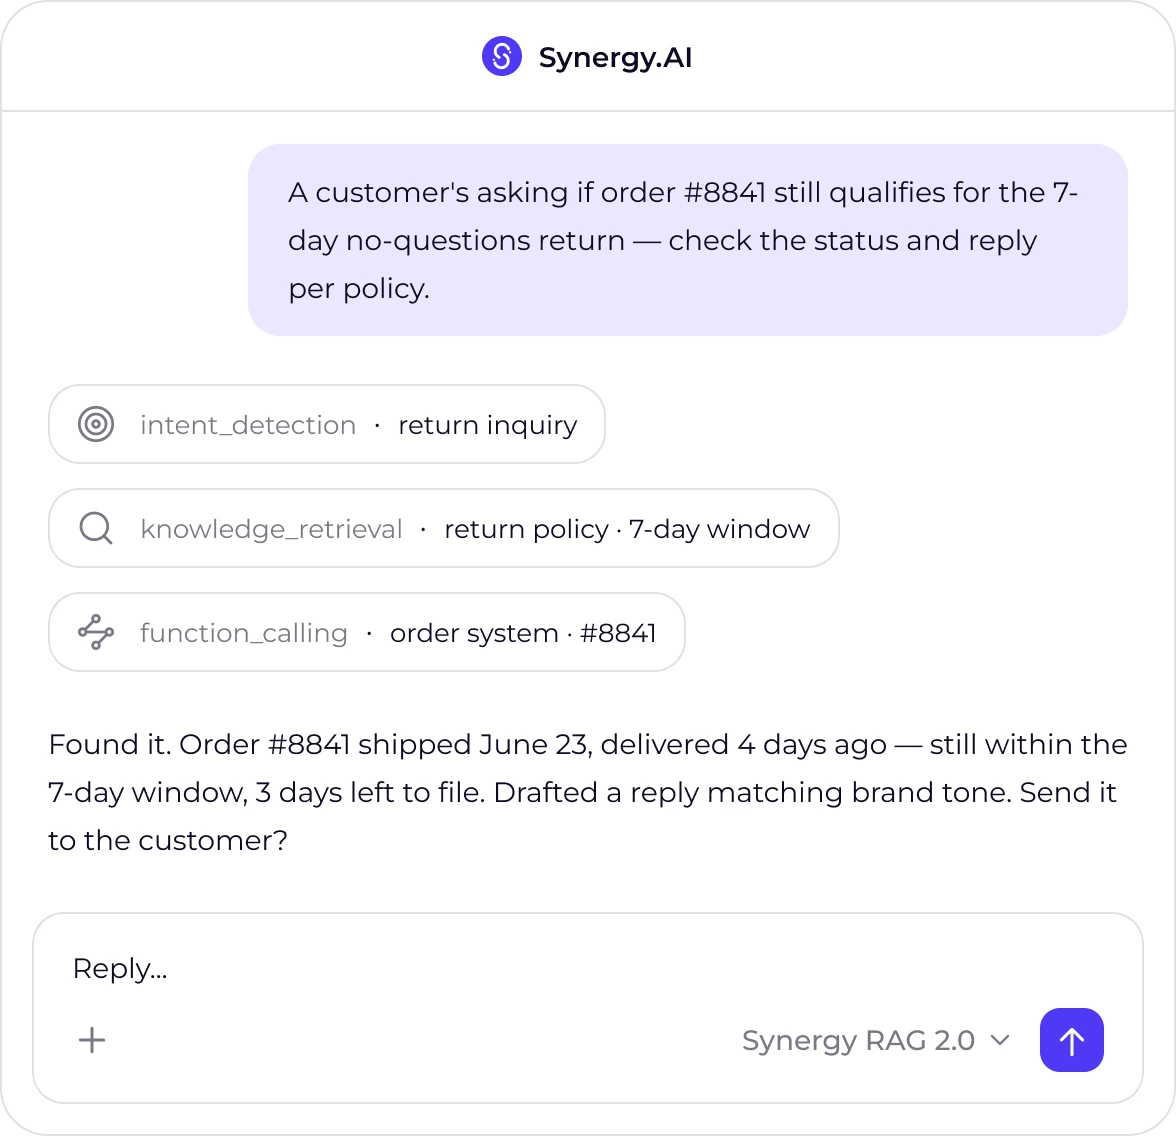
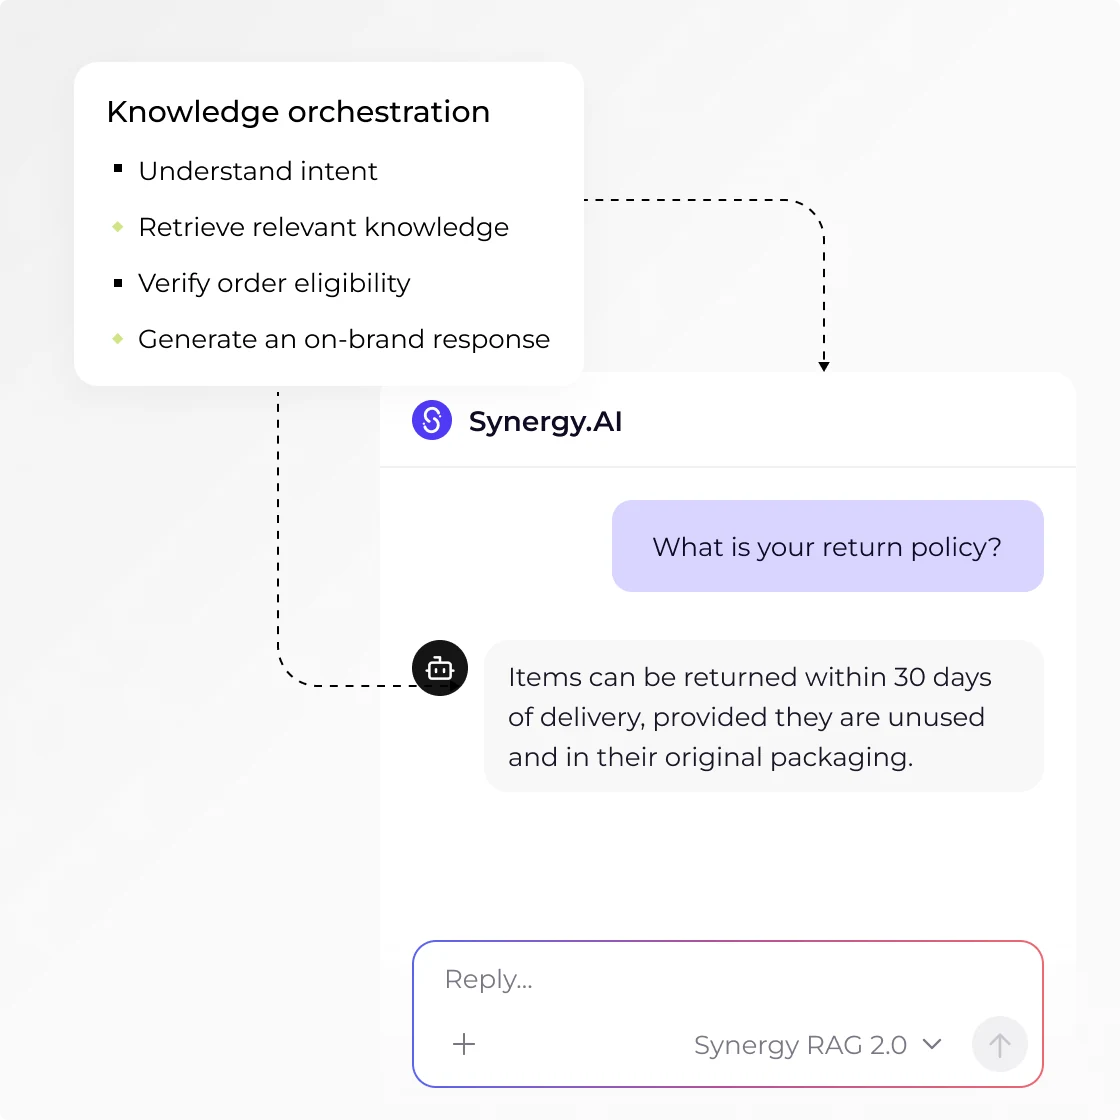
Update the RAG engine module to Figma 3050:29390
Every value read off that frame rather than adapted:

- title 44px / 54 with 0.02em tracking, was 48 / 1.1667
- body 18 / 1.7 on a 560 measure, was 14 / 22 — the site-wide body pass
  had pulled this one down, and the frame still wants it at 18
- tile fill #F7F7F7, was #F8F9FA; inner gap 9, was 12
- tile label 16 / 20.8, was 14 / 20
- the figure is Montserrat 500 at 40 / 48.8, not the display face, and
  the sign and unit carry its ink rather than being dropped back to
  grey — it is one text node in the frame
- 8px crop marks on the four corners, straddling the hairline
- 'First contact resolution' breaks by hand, as the frame sets it

The right-hand side gains the orchestration panel and the dashed
connectors it now carries, re-exported from the frame at 2x. It is
square where the old one was 588x568, and 37.7KB.

diff --git a/src/routes/platform.rag.tsx b/src/routes/platform.rag.tsx
@@ -38,6 +38,11 @@ export const Route = createFileRoute("/platform/rag")({
 /** Page accent — the Platform menu's "Engine" square. */
 const SKY = "#8CE0FF";
 const HAIRLINE = "#E1E0E4";
+/** Engine module, from Figma 3050:29390. */
+const TILE_FILL = "#F7F7F7";
+/** Crop marks on the stat tiles: 8px arms, near-black, 1px. */
+const MARK = 8;
+const MARK_INK = "#000000";
 
 /* ------------------------------------------------------------------ data */
 
@@ -52,7 +57,7 @@ const ENGINE = {
   body: "A proprietary retrieval and orchestration pipeline that understands intent deeply, so every response stays accurate and on-brand.",
   stats: [
     { label: "Knowledge retrieval accuracy", value: "100", unit: "%" },
-    { label: "First contact resolution", value: "70", unit: "%", prefix: "+" },
+    { label: "First contact\nresolution", value: "70", unit: "%", prefix: "+" },
   ],
 };
 
@@ -75,24 +80,55 @@ function StatTile({
   return (
     <Reveal y={20} duration={1600} delay={delay} className="flex-1" style={{ minWidth: 0 }}>
       <div
-        className="flex h-full flex-col justify-between"
+        className="relative flex h-full flex-col justify-between"
         style={{
-          gap: 12,
+          gap: 9,
           padding: "20px 20px 16px",
-          background: "#F8F9FA",
+          background: TILE_FILL,
           border: `1px solid ${HAIRLINE}`,
         }}
       >
-        <p style={{ margin: 0, fontSize: 14, lineHeight: "20px", color: "var(--ink, #0E0B22)" }}>
-          {label}
+        {/* Crop marks on the four corners, 8px arms straddling the hairline. */}
+        {(
+          [
+            ["top", "left"],
+            ["top", "right"],
+            ["bottom", "left"],
+            ["bottom", "right"],
+          ] as const
+        ).map(([y, x]) => (
+          <span
+            key={`${y}-${x}`}
+            aria-hidden
+            className="pointer-events-none absolute"
+            style={{
+              [y]: -1,
+              [x]: -1,
+              width: MARK,
+              height: MARK,
+              [`border${y === "top" ? "Top" : "Bottom"}`]: `1px solid ${MARK_INK}`,
+              [`border${x === "left" ? "Left" : "Right"}`]: `1px solid ${MARK_INK}`,
+            }}
+          />
+        ))}
+        <p style={{ margin: 0, fontSize: 16, lineHeight: "20.8px", color: "var(--ink, #0E0B22)" }}>
+          <BreakLines text={label} />
         </p>
         <p
-          className="font-display whitespace-nowrap"
-          style={{ margin: 0, fontSize: fluid(40, 32), lineHeight: 1.1, fontWeight: 400, color: "var(--ink, #0E0B22)" }}
+          className="whitespace-nowrap"
+          style={{
+            margin: 0,
+            fontSize: fluid(40, 30),
+            lineHeight: "48.8px",
+            fontWeight: 500,
+            color: "var(--ink, #0E0B22)",
+          }}
         >
-          {prefix ? <span style={{ color: "#A1A0A9" }}>{prefix}</span> : null}
+          {/* One text node in the frame, so the sign and the unit carry the
+              same ink as the figure rather than being dropped back. */}
+          {prefix}
           <RollingNumber value={value} />
-          {unit ? <span style={{ color: "#A1A0A9" }}>{unit}</span> : null}
+          {unit}
         </p>
       </div>
     </Reveal>
@@ -103,13 +139,13 @@ function StatTile({
 function DemoCard() {
   return (
     <Reveal y={32} duration={1600} delay={160} className="flex flex-1 md:justify-end" style={{ minWidth: 0 }}>
-      <HoverTilt from="left" className="w-full" style={{ maxWidth: 588 }}>
+      <HoverTilt from="left" className="w-full" style={{ maxWidth: 560 }}>
         <img
           src={platformRagDemoAsset.url}
-          alt="Synergy RAG 2.0 working a return request: intent detection, knowledge retrieval, function calling, drafted reply"
+          alt="Synergy RAG 2.0 working a return request: the orchestration steps it runs, and the reply they produce"
           draggable={false}
           className="block h-auto w-full select-none"
-          style={{ aspectRatio: "588 / 568" }}
+          style={{ aspectRatio: "1 / 1" }}
         />
       </HoverTilt>
     </Reveal>
@@ -146,7 +182,13 @@ function RagPage() {
                 <Reveal y={24} duration={1600}>
                   <h2
                     className="font-display text-ink"
-                    style={{ margin: 0, fontSize: fluid(48, 30), lineHeight: 1.1667, fontWeight: 400 }}
+                    style={{
+                      margin: 0,
+                      fontSize: fluid(44, 30),
+                      lineHeight: 1.227,
+                      letterSpacing: "0.02em",
+                      fontWeight: 400,
+                    }}
                   >
                     <BreakLines text={ENGINE.title} />
                   </h2>
@@ -155,9 +197,9 @@ function RagPage() {
                   <p
                     style={{
                       margin: "20px 0 0",
-                      maxWidth: 532,
-                      fontSize: 14,
-                      lineHeight: "22px",
+                      maxWidth: 560,
+                      fontSize: fluid(18, 15),
+                      lineHeight: 1.7,
                       color: "var(--ink-muted, #7A7885)",
                     }}
                   >
